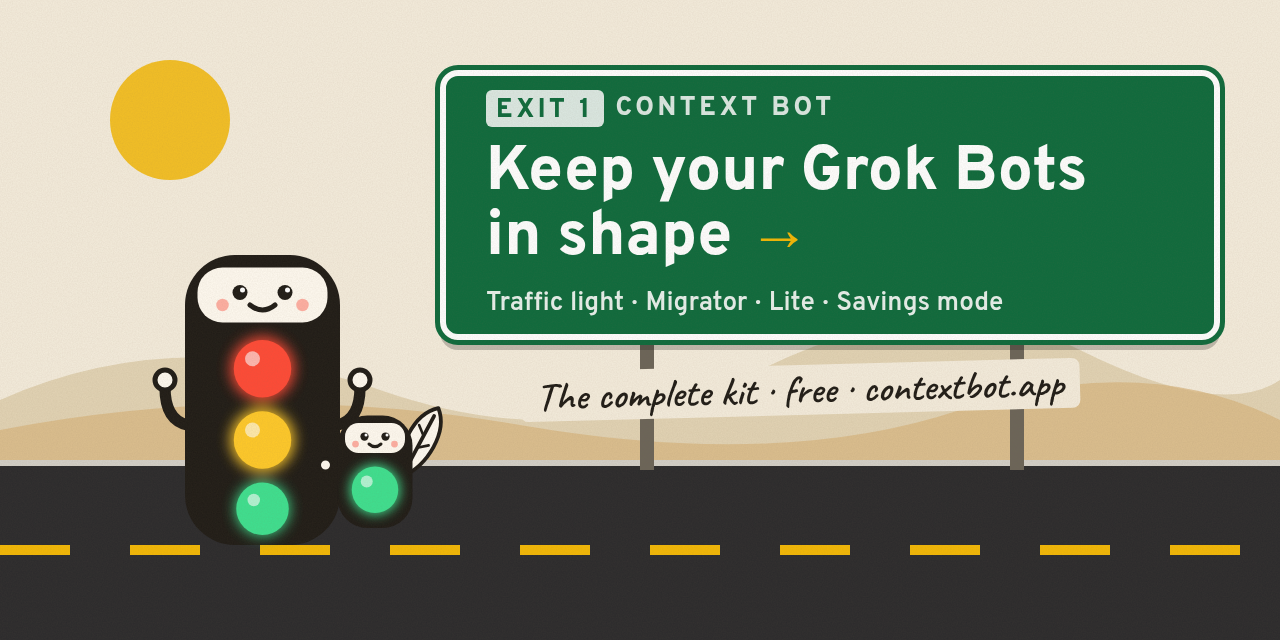
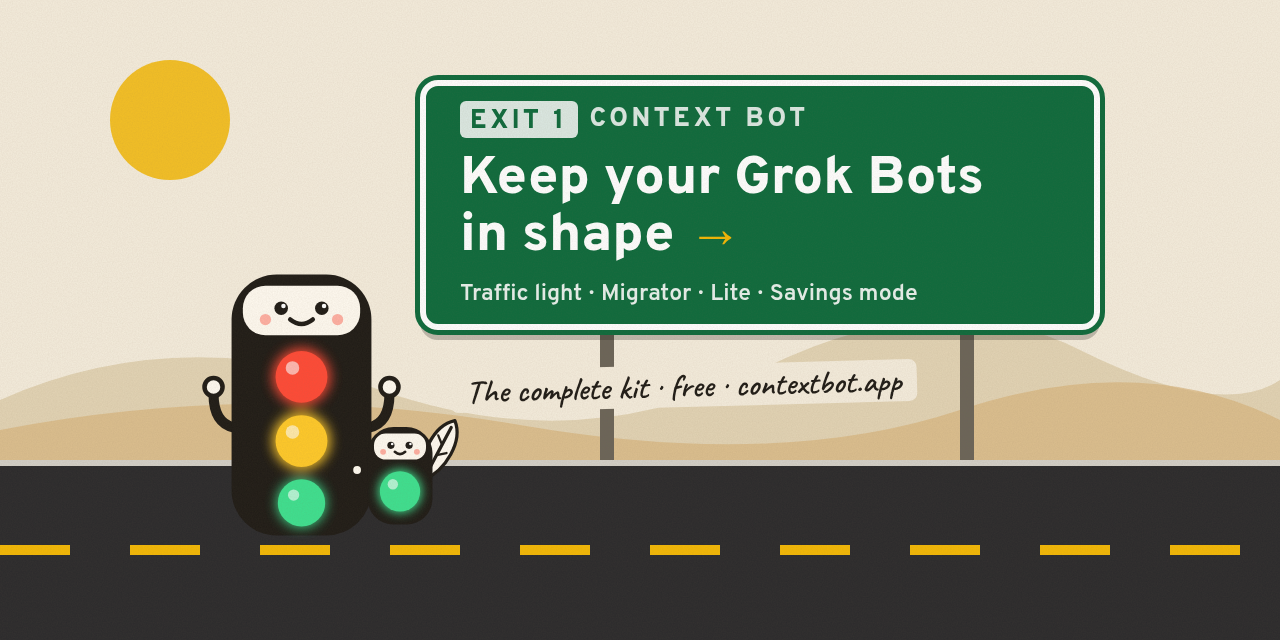
Social preview: keep content centered for cropped views

Changed region(s): [[0.125, 0.0938, 0.9688, 0.8438]]

diff --git a/assets/brand/social-preview.html b/assets/brand/social-preview.html
@@ -3,13 +3,13 @@
 <div style="position:absolute;left:110px;top:60px;width:120px;height:120px;border-radius:50%;background:var(--mark);opacity:.85"></div>
 <div class=road style="top:460px;height:180px"></div>
 <div style="position:absolute;left:0;right:0;top:460px;height:6px;background:#fffaf0;opacity:.8"></div>
-<div style="position:absolute;left:640px;top:330px;width:14px;height:140px;background:#6b6458"></div>
-<div style="position:absolute;left:1010px;top:330px;width:14px;height:140px;background:#6b6458"></div>
-<div class=sign style="position:absolute;left:440px;top:70px;width:780px;height:270px;padding:26px 40px;display:flex;flex-direction:column;justify-content:center">
+<div style="position:absolute;left:600px;top:320px;width:14px;height:140px;background:#6b6458"></div>
+<div style="position:absolute;left:960px;top:320px;width:14px;height:140px;background:#6b6458"></div>
+<div class=sign style="position:absolute;left:420px;top:80px;width:680px;height:250px;padding:22px 34px;display:flex;flex-direction:column;justify-content:center">
 <div style="font-size:26px;letter-spacing:.14em;opacity:.85;display:flex;align-items:center;gap:12px"><span style="background:#fff;color:var(--hwy);border-radius:6px;padding:4px 10px 0">EXIT 1</span> CONTEXT BOT</div>
-<div style="font-size:62px;line-height:1.05;margin-top:14px">Keep your Grok Bots<br>in shape <span style="color:var(--mark)">→</span></div>
-<div style="font-size:26px;margin-top:16px;opacity:.9;font-weight:600">Traffic light · Migrator · Lite · Savings mode</div></div>
-<div class=hand style="position:absolute;left:520px;top:365px;font-size:40px;white-space:nowrap;background:var(--paper);padding:0 16px;border-radius:8px;transform:rotate(-1.5deg)">The complete kit · free · contextbot.app</div>
-<img src=tlbot2.svg style="position:absolute;left:150px;top:250px;height:300px">
-<img src=tlbot-lite.svg style="position:absolute;left:300px;top:390px;height:150px">
+<div style="font-size:54px;line-height:1.05;margin-top:14px">Keep your Grok Bots<br>in shape <span style="color:var(--mark)">→</span></div>
+<div style="font-size:23px;margin-top:14px;opacity:.9;font-weight:600">Traffic light · Migrator · Lite · Savings mode</div></div>
+<div class=hand style="position:absolute;left:450px;top:365px;font-size:33px;white-space:nowrap;background:var(--paper);padding:0 16px;border-radius:8px;transform:rotate(-1.5deg)">The complete kit · free · contextbot.app</div>
+<img src=tlbot2.svg style="position:absolute;left:200px;top:270px;height:270px">
+<img src=tlbot-lite.svg style="position:absolute;left:335px;top:405px;height:130px">
 </body></html>
